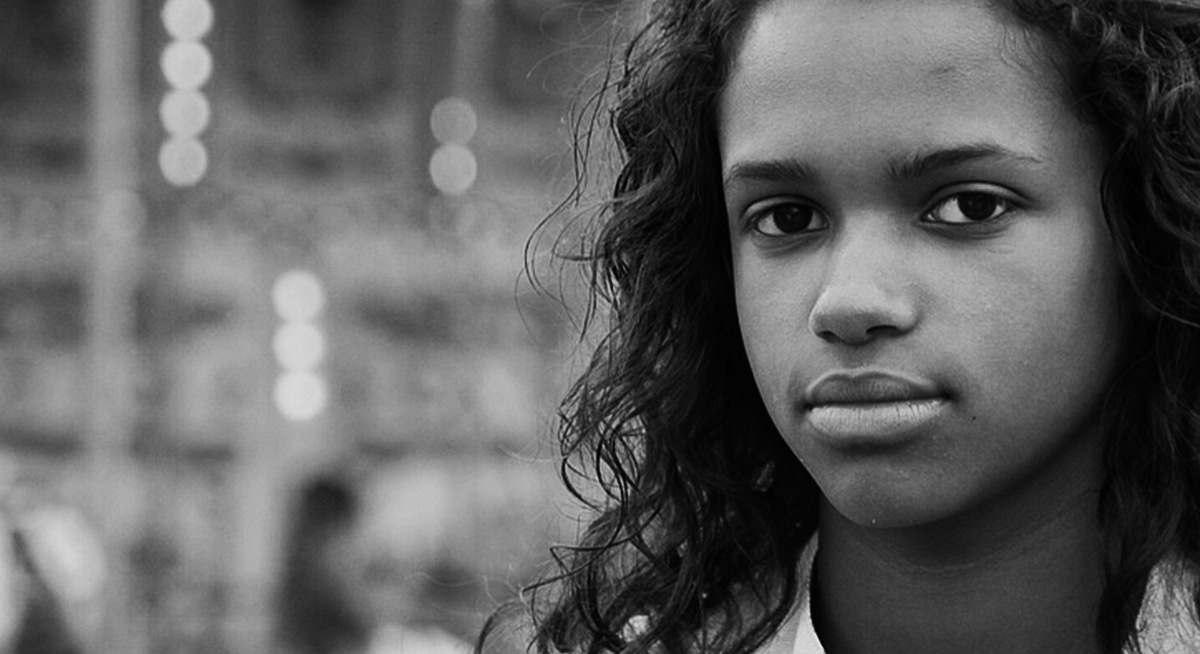
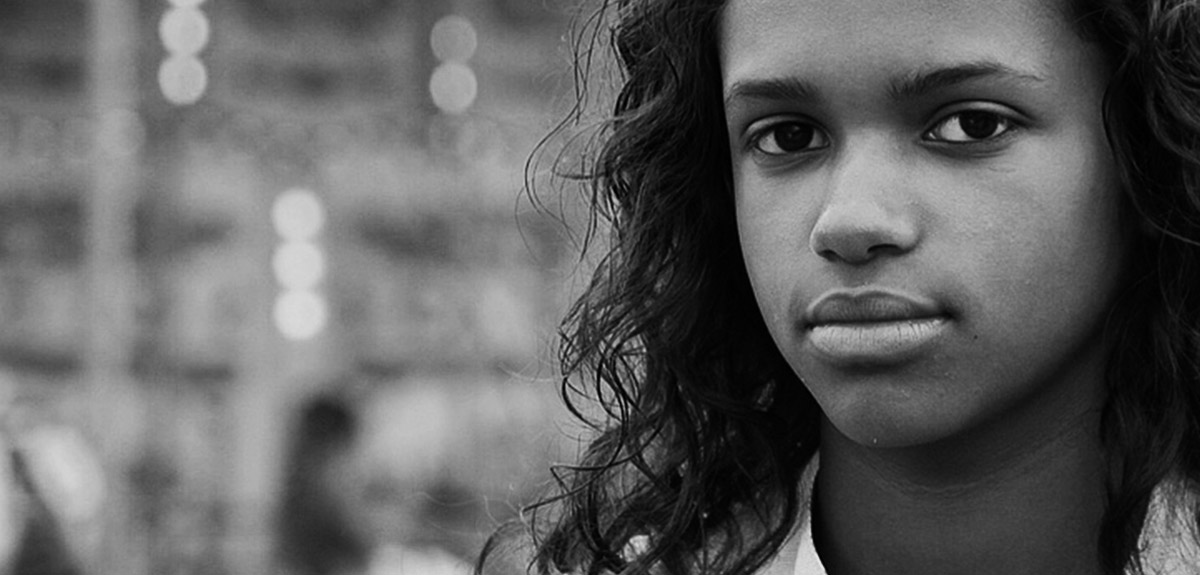
1.03

diff --git a/style.css b/style.css
@@ -673,7 +673,7 @@ section#content-section
 figure.hero-banner
 {
   width:100%;
-	min-height:654px;
+	min-height:575px;
 	font-size:54px;
 	line-height:54px;
 	letter-spacing:-1px;

diff --git a/index.php b/index.php
@@ -56,7 +56,7 @@ $tweet     = $tweetfeed->display();
 			</figcaption>
 		</figure>
 		
-		<article class="content-area2 cf">
+		<article id="learnmore" class="content-area2 cf">
 		  <div class="center-box">
 			  <figure><img src="images/uploads/img_02.jpg" alt=" "></figure>
 				<div class="txt">
@@ -72,7 +72,7 @@ $tweet     = $tweetfeed->display();
 			</div>
 		</article>
 		
-		<div id="learnmore" class="content-bg-box cf">
+		<div class="content-bg-box cf">
 		  <div class="center-box">
 			  <article class="content-area3 right cf">
 				  <figure>
@@ -99,7 +99,7 @@ $tweet     = $tweetfeed->display();
 						<p>All too often, the media, law enforcement and others refer to these victims as "child prostitutes," belittling the pain and abuse these young girls endure on a daily basis. And in every state, there are child prostitution laws used to arrest and detain girls bought and sold for sex. These girls are not even of the legal age to consent to sex at all, let alone illicit commercial sex. This has to change -- in language and law.</p>
 						<footer>
 							<a href="uploads/NoSuchThing_Report.pdf" target="_blank" class="more">read report</a>
-							<p>Learn about the media and modern day slavery.</p>
+							<p>Ending child prostitution in language and law</p>
 						</footer>
 					</div>
 				</article>
